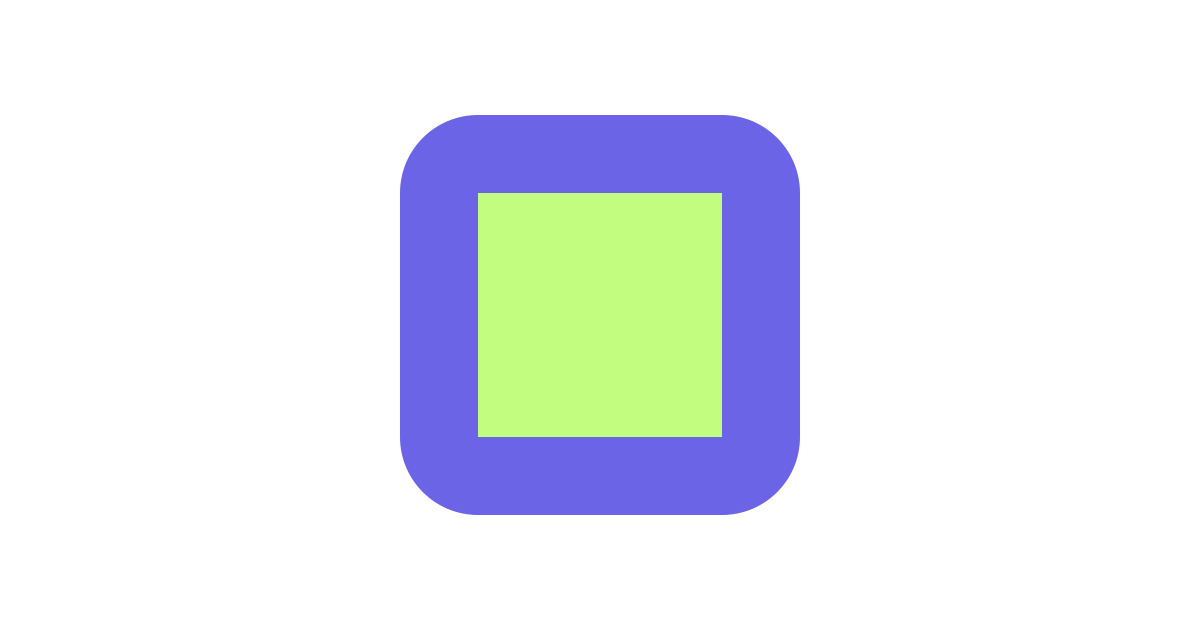
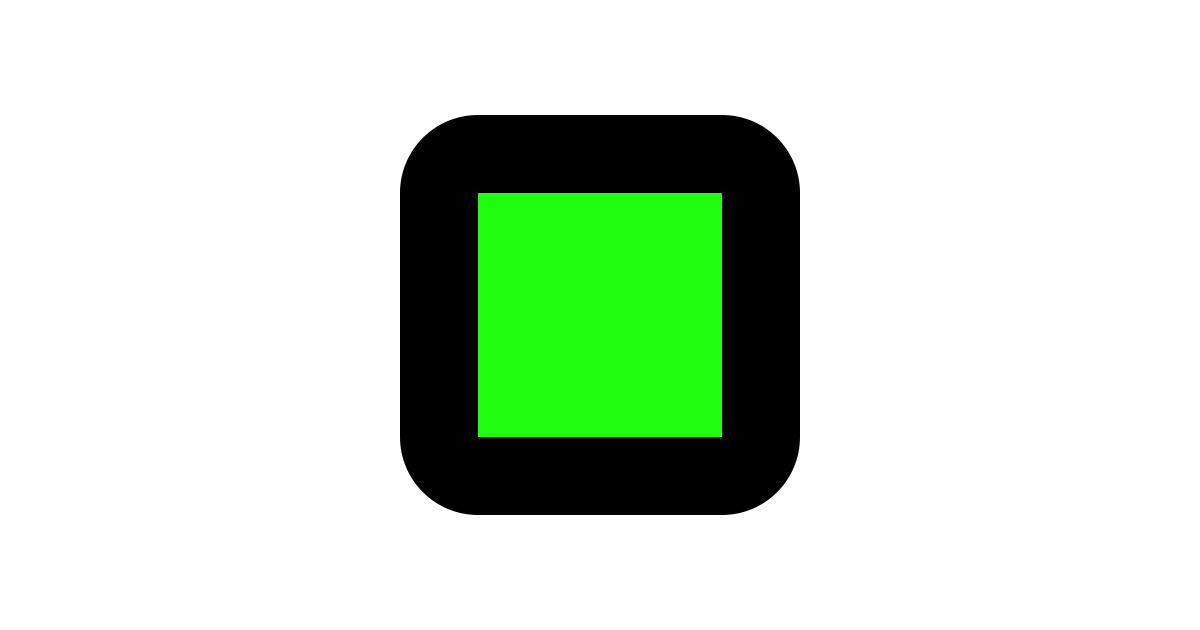
v1.10.15: Update og-image to black/green, add mobile hex codes

Changed region(s): [[0.3083, 0.181, 0.6783, 0.8444]]

diff --git a/src/main.tsx b/src/main.tsx
@@ -593,6 +593,13 @@ function MobileScreen() {
           {tiltSquare(252, true)}
         </div>
 
+        {/* Hex codes above bars */}
+        <div style={{ display: 'flex', marginBottom: '4px', pointerEvents: 'none' }}>
+          <span style={{ flex: 1, textAlign: 'center', fontFamily: 'monospace', fontWeight: 800, fontSize: '16px', color: textColor }}>{hslToHex(colors.hue, colors.sat, colors.light)}</span>
+          <span style={{ width: '4px' }} />
+          <span style={{ flex: 1, textAlign: 'center', fontFamily: 'monospace', fontWeight: 800, fontSize: '16px', color: textColor }}>{hslToHex(colors.bgHue, colors.bgSat, colors.bgLight)}</span>
+        </div>
+
         {/* Hue bars - sized to match home screen button area */}
         <div style={{ position: 'relative', flex: '0 0 auto' }}>
           {/* Invisible buttons set the correct height */}

diff --git a/index.html b/index.html
@@ -30,7 +30,7 @@
     </script>
     <meta property="og:title" content="good days" />
     <meta property="og:description" content="your digital-analog journal oasis" />
-    <meta property="og:image" content="/og-image.png" />
+    <meta property="og:image" content="https://gdays.day/og-image.png" />
     <meta property="og:type" content="website" />
     <title>good days</title>
   </head>

diff --git a/src/shared/version.ts b/src/shared/version.ts
@@ -1,1 +1,1 @@
-export const VERSION = '1.10.14';
+export const VERSION = '1.10.15';

diff --git a/CLAUDE.md b/CLAUDE.md
@@ -998,6 +998,7 @@ On mobile devices, the app shows a color picker using touch + accelerometer cont
 │        │   ●    │             │     edge midpoints (no +, no stats)
 │        └────────┘              │
 │            black               │
+│       #78cc33    #c8ff00        │  ← Hex codes (monospace, bold)
 ├───────────────┬────────────────┤
 │     text      │   background   │  ← Labels (black)
 │ ──────────────│────────────────│  ← Horizontal hue indicators
@@ -2277,7 +2278,10 @@ When creating or modifying app icons, follow these rules to prevent macOS/iOS fr
 | `apple-touch-icon.png` | iOS/macOS dock | **Square** (OS rounds corners automatically) |
 | `icon-192.png` | Android/PWA | **Square** |
 | `icon-512.png` | Android/PWA | **Square** |
-| `og-image.png` | Social sharing | Icon on white background |
+| `og-image.png` | Social sharing (iMessage, etc.) | Icon on white background, generated from `og-source.svg` |
+| `og-source.svg` | Source SVG for og-image.png | 1200x630, icon centered on white bg |
+
+**og:image URL:** Must be an **absolute URL** (`https://gdays.day/og-image.png`) in `index.html`, not a relative path. Social crawlers (iMessage, Twitter, etc.) require absolute URLs to fetch the preview image.
 
 ### Current Icon Colors
 
